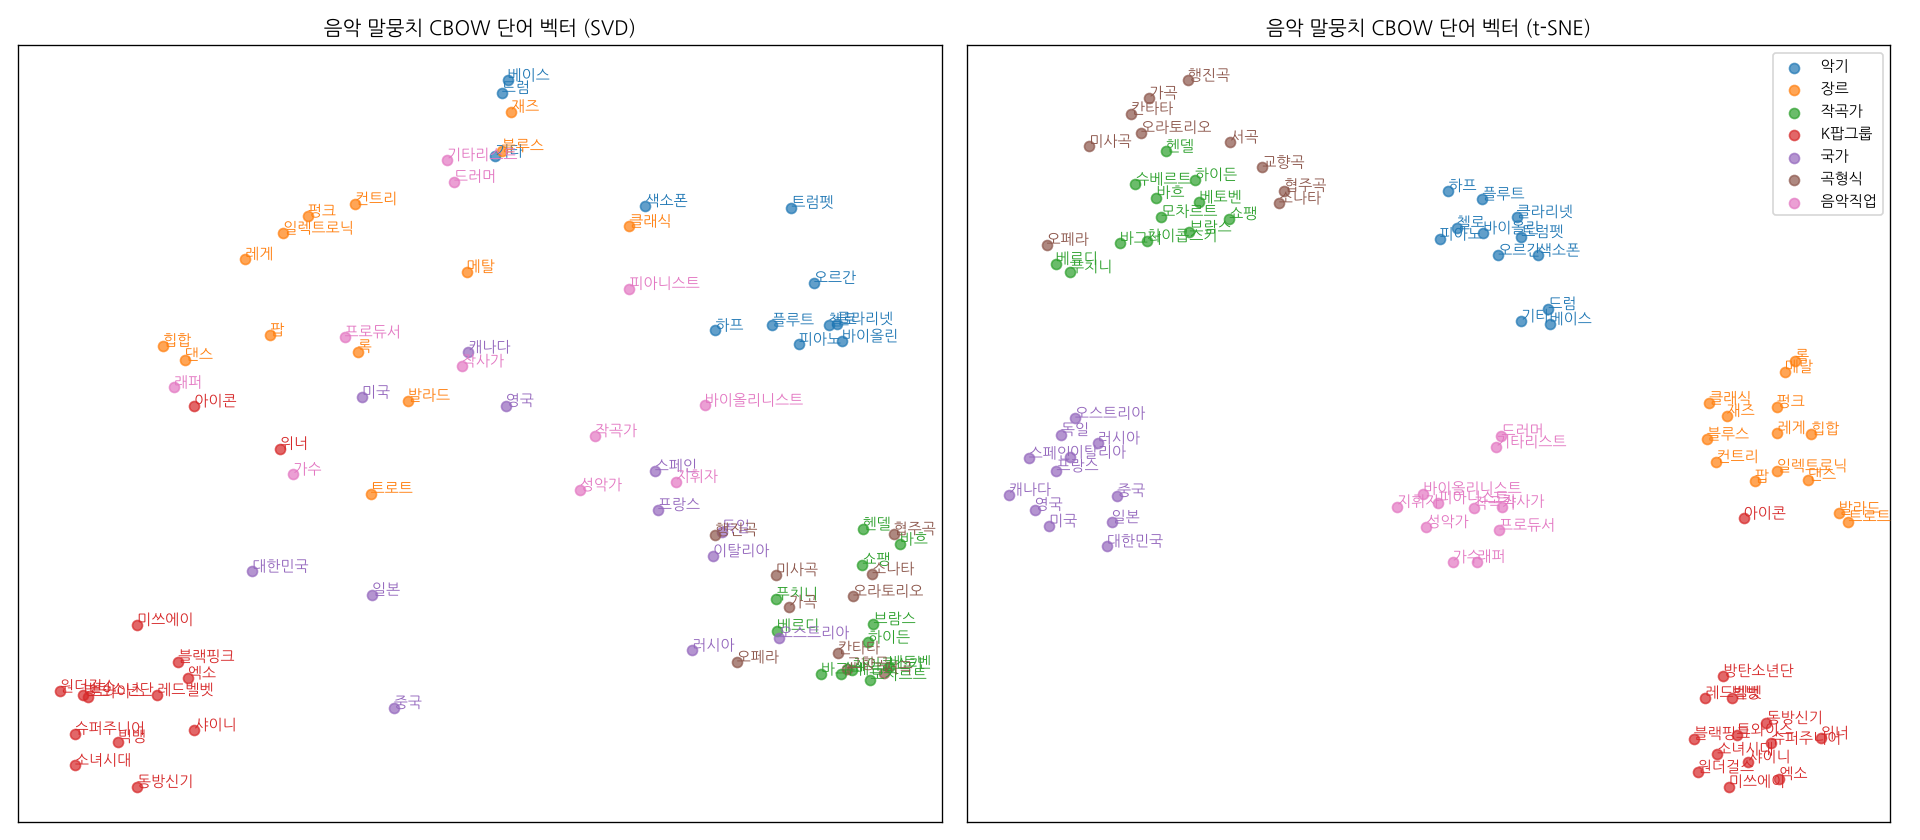
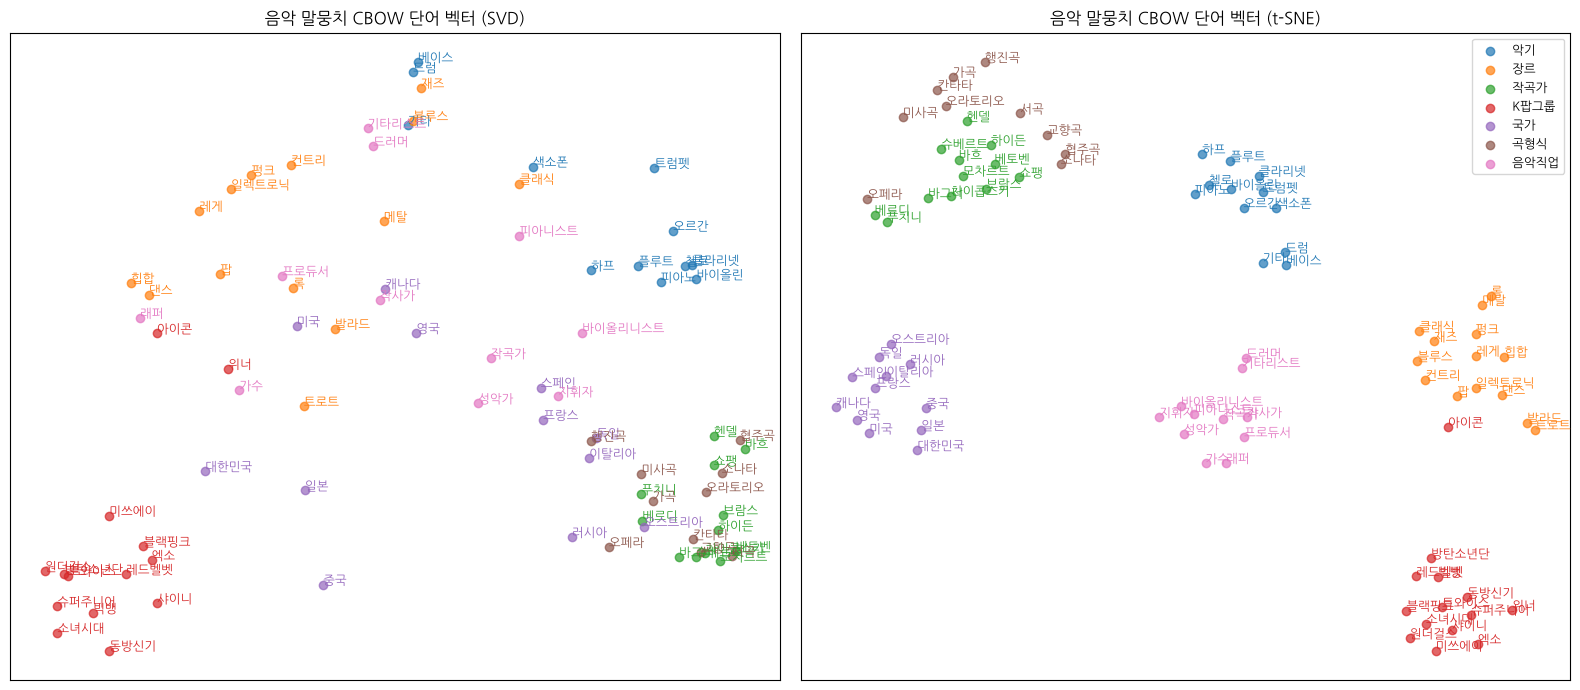
word2vec_music: rewrite README as a report, add report figures

diff --git a/word2vec_music/README.md b/word2vec_music/README.md
@@ -1,57 +1,232 @@
-# word2vec 한글 실습: 음악 말뭉치
+# 음악 분야 한글 말뭉치를 이용한 word2vec 학습 및 평가
 
-『밑바닥부터 시작하는 딥러닝 ❷』 4장(word2vec 속도 개선)의 한글 실습입니다.
-[ssuai/deep_learning_from_scratch2](https://github.com/ssuai/deep_learning_from_scratch2)의 `ch04/word2vec_korean.ipynb`(김소월 시)와 같은 흐름으로,
-**한국어 위키백과 음악 문서**를 모아 교재의 CBOW(Embedding + 네거티브 샘플링)로 학습하고 평가합니다.
+『밑바닥부터 시작하는 딥러닝 ❷』 4장 「word2vec 속도 개선」 한글 실습 보고서
 
-**결과 노트북: [`word2vec_music.ipynb`](word2vec_music.ipynb)**
+- 실험 노트북: [`word2vec_music.ipynb`](word2vec_music.ipynb)
+- 참고: [ssuai/deep_learning_from_scratch2](https://github.com/ssuai/deep_learning_from_scratch2) `ch04/word2vec.ipynb`, `ch04/word2vec_korean.ipynb`
 
-## 결과 요약
+## 요약
 
-평가셋은 직접 만들었습니다: 유추 374문항(악기→연주자, 그룹→소속사, 국가→수도/언어/음악 차트, 작곡가→국적, 남성→여성)과
-7개 범주 84단어의 군집 평가(가장 가까운 5개 중 같은 범주 비율, 무작위 약 0.14).
+한국어 위키백과에서 음악 문서 약 2만 편(형태소 기준 517만 토큰)을 모아, 교재의 CBOW 모델(Embedding 계층과 네거티브 샘플링)로 단어 벡터를 학습했다.
+학습한 벡터를 평가하려고 유추 문제 374개와 범주 군집 평가셋(7개 범주, 84단어)을 직접 만들었다.
+가장 좋은 모델은 전체 말뭉치를 Kiwi로 형태소 분석해 학습한 CBOW였다. 이 모델은 유추 top-5 정답률 0.826, 범주 군집 정확도(P@5) 0.889를 기록했다.
+비교 실험에서는 **말뭉치 크기**가 성능에 가장 크게 영향을 줬다. **형태소 분석기**를 쓴 쪽이 규칙 기반 조사 분리보다 나았다.
+**윈도우 크기**에 따라 단어 벡터가 담는 관계의 종류가 달라졌다.
 
-| 설정 (5에폭, hidden 100, 배치 1000, lr 0.003) | 토큰 | 어휘 | 학습 | 유추 top-1 | 유추 top-5 | 범주 P@5 |
-|---|---:|---:|---:|---:|---:|---:|
-| 규칙 기반 토큰 / CBOW 윈도우 5 | 219만 | 16,220 | 28분 | 0.321 | 0.603 | 0.760 |
-| Kiwi / CBOW 윈도우 5 | 251만 | 12,687 | 29분 | 0.358 | 0.660 | 0.835 |
-| Kiwi / CBOW 윈도우 2 | 251만 | 12,687 | 21분 | 0.230 | 0.540 | **0.896** |
-| Kiwi / Skip-gram 윈도우 2 | 251만 | 12,687 | 46분 | 0.345 | 0.652 | 0.880 |
-| Kiwi / CBOW 윈도우 5, 문서 10% | 50만 | 4,190 | 5분 | 0.163 | 0.332 | 0.731 |
-| Kiwi / CBOW 윈도우 5, 문서 25% | 125만 | 7,922 | 13분 | 0.226 | 0.479 | 0.785 |
-| **Kiwi / CBOW 윈도우 5, 전체** | 517만 | 20,276 | 72분 | **0.479** | **0.826** | 0.889 |
+## 1. 목표
 
-* 말뭉치 크기의 영향이 가장 컸고, 형태소 분석(Kiwi)이 규칙 기반 조사 분리보다 나았습니다.
-* 윈도우가 좁으면 같은 종류끼리(범주), 넓으면 함께 나오는 관계(유추)를 더 잘 잡았습니다. Skip-gram은 CBOW보다 유추에 강하지만 2배 넘게 느렸습니다.
-* 교재 `analogy()`에 정규화하지 않은 벡터를 넣으면 노름이 큰 단어가 늘 답으로 나와서, `normalize()` 후 풀어야 했습니다.
-* 예: `피아노 → 첼로, 바이올린, 신시사이저`, `미국:빌보드 = 일본:오리콘`, `엑소:SM = 트와이스:JYP`
+교재 4장의 한글 예제는 김소월의 시 168편(1.3만 토큰)으로 CBOW를 학습한다.
+그런데 말뭉치가 작아서 어휘의 30%가 `<unk>`가 되고, 유사 단어 검색 결과도 불안정하다(예: `님` → `몹쓸`, `물가`).
+이 과제의 목표는 다음 세 가지다.
 
-![범주별 단어 벡터](figures/tsne_categories.png)
+1. 관심 분야(음악)의 한글 말뭉치를 교재 예제보다 충분히 크게 직접 수집한다.
+2. 교재의 word2vec 구현을 그대로 사용해 단어 벡터를 학습한다.
+3. 결과를 눈으로 보는 데 그치지 않고, 설정을 바꿔 가며 **정량적으로 비교**할 수 있는 평가 체계를 만든다.
 
-## 구성
+## 2. 데이터
 
-| 파일 | 내용 |
+### 2.1 수집
+
+| 단계 | 방법 | 결과 |
+|---|---|---|
+| 원본 | [kowikitext](https://github.com/lovit/kowikitext): 한국어 위키백과 2020-09-20 덤프를 문서 단위로 정리한 공개 데이터 (CC BY-SA) | 846,797 문서 |
+| 음악 문서 선별 | 문서 정의문(첫 문장)의 서술부 끝 40글자에 음악 명사(가수, 음반, 노래, 작곡가, 밴드, 교향곡, 악기, 장르 등)가 있는 문서만 선택 | 26,811 문서 |
+| 정제 | 괄호 속 원어·한자·생몰년 삭제, `~다.`로 끝나는 서술문만 유지(목록·표 제거), 문서 내 중복 문장 삭제, 한글 비율 60% 미만 문장 삭제 | **19,977 문서, 220,307 문장, 1,353만 글자** |
+
+처음에는 정의문 전체에서 키워드를 찾았다. 그랬더니 `조세법률주의`, `FN M1900`(싱글 액션 권총), `안남초등학교`(옥천군 안남면 *연주*리) 같은 문서가 섞여 들어왔다.
+그래서 판단 기준을 "이 문서는 무엇인가"를 말하는 서술부로 좁혔다.
+선별된 문서는 K팝 가수와 음반, 서양 고전음악(작곡가, 작품, 악기), 대중음악 장르, 해외 밴드 등 음악 전반을 다룬다.
+
+### 2.2 토큰화
+
+위키백과 문장은 시보다 길고 활용형이 다양하다. 그래서 두 가지 토크나이저를 만들어 비교했다(`dataset/tokenize_music.py`).
+
+| | 규칙 기반 (교재 `common/korean.py`) | Kiwi 형태소 분석기 |
+|---|---|---|
+| 방식 | 어절 끝 조사만 규칙으로 분리 | 형태소 분석 후 용언은 기본형(`남겼다` → `남기다`), 조사는 `-를`처럼 표기, 어미 삭제 |
+| `쇼팽은 … 작곡가이자 피아니스트로 … 남겼다` | `쇼팽 -은 … 작곡가이자 피아니스트 -로 … 남겼다` | `쇼팽 -은 … 작곡가 -이다 피아니스트 -로 … 남기다` |
+| 전체 토큰 수 | 451만 | 517만 |
+| 어휘 수 (`min_count=10`) | 28,658 | 20,276 |
+| `<unk>` 비율 | 10.1% | 4.5% |
+
+규칙 기반 방식에서는 `작곡가이자`, `그룹이다`, `데뷔한`처럼 어미가 붙은 형태가 모두 서로 다른 단어가 된다.
+그래서 어휘가 커지고, 같은 단어의 통계가 여러 형태로 흩어진다.
+
+## 3. 방법
+
+### 3.1 모델
+
+교재 4장의 구현을 그대로 사용했다.
+
+- **CBOW**: 맥락 단어들의 Embedding 평균으로 가운데 단어를 예측한다(`cbow.py`).
+- **Skip-gram**: 가운데 단어로 맥락 단어 각각을 예측한다(`skip_gram.py`).
+- **Embedding 계층**: 원-핫 벡터와 가중치 행렬의 곱 대신 해당 행을 뽑아 쓴다.
+- **네거티브 샘플링**: 어휘 전체에 대한 Softmax 다중 분류를, 정답 1개와 오답 5개에 대한 Sigmoid 이진 분류로 바꾼다. 오답은 unigram 분포의 0.75제곱으로 뽑는다.
+- 은닉층 100차원, Adam 최적화, 5에폭, `min_count=10`.
+
+### 3.2 교재 코드에서 바꾼 점
+
+교재 코드를 그대로 쓰면 어휘가 1만 개를 넘는 이 말뭉치를 CPU에서 학습할 수 없을 만큼 느렸다. 그래서 두 부분을 바꿨다.
+
+1. **네거티브 샘플 추출.** 교재 `UnigramSampler`의 CPU 경로는 샘플마다 확률표를 복사하고 `np.random.choice`를 따로 호출한다.
+   이것을 교재 GPU 경로와 같은 방식으로 바꿔 배치 전체를 한 번에 뽑게 했다. 분포는 같고, 정답 단어가 오답으로 뽑힐 수 있다는 점만 다르다.
+2. **배치 크기 1000, 학습률 0.003.** 교재 `Embedding.backward()`는 반복마다 (어휘 수 × 100) 크기의 기울기 행렬 전체를 0으로 초기화한다. `Adam`도 행렬 전체를 갱신한다.
+   그래서 반복 1회의 비용이 배치 크기보다 어휘 수에 좌우된다. 배치 100으로는 250만 토큰 1에폭에 1시간이 넘게 걸렸다.
+   배치를 1000으로 키워 반복 횟수를 1/10로 줄이고, 줄어든 갱신 횟수만큼 학습률을 올렸다.
+   같은 조건으로 2에폭을 학습했을 때 lr 0.001은 유추 top-5 0.291, lr 0.003은 0.564였다.
+
+### 3.3 평가 방법
+
+평가셋은 직접 만들었다(`eval/build_testsets.py`, 사실관계는 위키백과 기준).
+
+**유추 평가 (374문항).** `a : b = c : ?` 형식이다. 교재 `analogy()`와 같은 방식으로 풀었다.
+`b − a + c` 벡터와 코사인 유사도가 가장 큰 단어(a, b, c 제외)가 정답이면 top-1, 상위 5개 안에 있으면 top-5로 셌다.
+
+| 관계 | 예시 | 문항 |
+|---|---|---:|
+| 악기 → 연주자 | 피아노 : 피아니스트 = 바이올린 : 바이올리니스트 | 42 |
+| 그룹 → 소속사 | 엑소 : SM = 트와이스 : JYP | 94 |
+| 국가 → 수도 | 일본 : 도쿄 = 프랑스 : 파리 | 56 |
+| 국가 → 언어 | 독일 : 독일어 = 일본 : 일본어 | 30 |
+| 국가 → 음악 차트 | 미국 : 빌보드 = 일본 : 오리콘 | 6 |
+| 작곡가 → 국적 | 쇼팽 : 폴란드 = 베르디 : 이탈리아 | 90 |
+| 남성 → 여성 | 남성 : 여성 = 테너 : 소프라노 | 56 |
+
+**범주 군집 평가 (84단어).** 악기, 장르, 작곡가, K팝 그룹, 국가, 곡 형식, 음악 직업의 7개 범주로 구성했다.
+단어마다 평가 단어 전체에서 가장 가까운 5개를 찾고, 그중 같은 범주의 비율(precision@5)을 평균했다. 무작위로 고르면 약 0.14다.
+
+## 4. 결과
+
+### 4.1 비교 실험
+
+모든 실험은 5에폭, 은닉층 100, 배치 1000, lr 0.003이다. 학습 시간은 4코어 CPU에서 여러 실험을 동시에 돌린 기준이다.
+
+| 실험 | 설정 | 토큰 | 어휘 | 학습 시간 | 유추 top-1 | 유추 top-5 | 범주 P@5 |
+|---|---|---:|---:|---:|---:|---:|---:|
+| 토크나이저 | 규칙 기반 / CBOW 윈도우 5 / 문서 50% | 219만 | 16,220 | 28분 | 0.321 | 0.603 | 0.760 |
+| | Kiwi / CBOW 윈도우 5 / 문서 50% | 251만 | 12,687 | 29분 | 0.358 | 0.660 | 0.835 |
+| 모델·윈도우 | Kiwi / CBOW 윈도우 2 / 문서 50% | 251만 | 12,687 | 21분 | 0.230 | 0.540 | **0.896** |
+| | Kiwi / Skip-gram 윈도우 2 / 문서 50% | 251만 | 12,687 | 46분 | 0.345 | 0.652 | 0.880 |
+| 말뭉치 크기 | Kiwi / CBOW 윈도우 5 / 문서 10% | 50만 | 4,190 | 5분 | 0.163 | 0.332* | 0.731 |
+| | Kiwi / CBOW 윈도우 5 / 문서 25% | 125만 | 7,922 | 13분 | 0.226 | 0.479* | 0.785 |
+| | Kiwi / CBOW 윈도우 5 / 문서 50% | 251만 | 12,687 | 29분 | 0.358 | 0.660 | 0.835 |
+| | **Kiwi / CBOW 윈도우 5 / 문서 100%** | 517만 | 20,276 | 72분 | **0.479** | **0.826** | 0.889 |
+
+\* 평가 단어 중 `min_count` 미만인 단어가 있어 일부 문항만 풀 수 있었다(10%: 202문항, 25%: 332문항).
+규칙 기반은 358문항, 나머지는 374문항 전부를 풀었다.
+
+![말뭉치 크기에 따른 성능](figures/corpus_size.png)
+
+![범주별 유추 정답률](figures/analogy_by_category.png)
+
+### 4.2 최종 모델 (Kiwi, CBOW, 윈도우 5, 전체 말뭉치)
+
+학습 손실은 4.16에서 1.34로 줄었다.
+
+![학습 손실](figures/loss_curve.png)
+
+**유사 단어 (코사인 유사도 상위 5개)**
+
+| 질의 | 결과 |
 |---|---|
-| `dataset/make_music.sh` | 말뭉치를 처음부터 다시 만드는 스크립트 (kowikitext 약 500MB 다운로드) |
-| `dataset/filter_music.py` | 정의문 서술부로 음악 문서 고르기 (84.7만 문서 → 2.7만) |
-| `dataset/clean_music.py` | 괄호·목록·중복 제거, 서술문만 남김 (→ 2만 문서, 22만 문장, 1,350만 글자) |
-| `dataset/tokenize_music.py` | 규칙 기반(`common/korean.py`) / Kiwi 토큰화 |
-| `dataset/music_clean.txt.gz` | 정제된 말뭉치 (출처: 한국어 위키백과, CC BY-SA, [kowikitext](https://github.com/lovit/kowikitext) 2020-09-20) |
-| `music_data.py` | 토큰 파일 → `(corpus, word_to_id, id_to_word)` |
-| `train_music.py` | 교재 `ch04/train.py` 의 음악 말뭉치 버전 |
-| `eval_music.py`, `eval/` | 유추·범주 평가 코드와 평가셋 |
-| `results/*.pkl` | 학습된 단어 벡터와 손실 기록 |
-| `common/`, `cbow.py`, `skip_gram.py`, `negative_sampling_layer.py` | 밑바닥 2권 코드(MIT, ssuai 저장소) 그대로. 1권의 `common/`과 섞이지 않게 이 폴더 안에 따로 둠 |
+| 피아노 | 첼로, 바이올린, 신시사이저, 쳄발로, 비올라 |
+| 재즈 | 클래식, 아방가르드, 블루스, 퓨전, 뉴올리언스 |
+| 쇼팽 | 베토벤, 연습곡, 슈만, 모차르트, 멘델스존 |
+| 방탄소년단 | 빅뱅, 지드래곤, 레드벨벳, 포미닛, 케이팝 |
+| 소프라노 | 테너, 바리톤, 성악가, 콜로라투라, 음역 |
+| 트로트 | 정통, 발라드, 가요, 탱고, 설운도 |
+| 데뷔 | 데뷰, 복귀, 컴백, 발돋움, 전향 |
 
-교재 코드에서 바꾼 점은 두 가지입니다. 네거티브 샘플은 교재 GPU 경로와 같은 방식(배치 전체를 한 번에 뽑음)으로 CPU에서도 뽑고,
-배치를 1000으로 키웠습니다. 교재 `Embedding.backward()`와 `Adam`이 매 반복 (어휘 수 × 100) 행렬 전체를 다뤄서, 배치 100이면 1에폭에 1시간이 넘게 걸렸기 때문입니다.
+**유추 예시**
 
-## 실행
+| 문제 | 상위 3개 예측 | |
+|---|---|---|
+| 피아노 : 피아니스트 = 바이올린 : ? | 바이올리니스트, 조각가, 오르가니스트 | 정답 |
+| 일본 : 도쿄 = 프랑스 : ? | 파리, 하노이, 취리히 | 정답 |
+| 미국 : 빌보드 = 일본 : ? | 오리콘, TOKIO, ZARD | 정답 |
+| 엑소 : SM = 트와이스 : ? | JYP, YG, 스타쉽 | 정답 |
+| 남성 : 여성 = 테너 : ? | 소프라노, 바리톤, 모나코 | 정답 |
+| 모차르트 : 오스트리아 = 쇼팽 : ? | 헝가리, 스위스, 폴란드 | top-5 안 |
+| 남자 : 여자 = 왕 : ? | 시신, 크레인, 총장 | 오답 |
+
+**범주별 성능**
+
+| 유추 관계 | top-1 | top-5 | | 범주 | P@5 |
+|---|---:|---:|---|---|---:|
+| 악기 → 연주자 | 0.333 | 0.833 | | 악기 | 0.98 |
+| 그룹 → 소속사 | 0.670 | 0.957 | | 장르 | 0.91 |
+| 국가 → 수도 | 0.321 | 0.661 | | 작곡가 | 0.92 |
+| 국가 → 언어 | 0.367 | 0.867 | | K팝 그룹 | 0.94 |
+| 국가 → 음악 차트 | 0.667 | 1.000 | | 국가 | 0.97 |
+| 작곡가 → 국적 | 0.289 | 0.756 | | 곡 형식 | 0.48 |
+| 남성 → 여성 | 0.768 | 0.839 | | 음악 직업 | 0.95 |
+
+![범주별 단어 벡터 시각화](figures/tsne_categories.png)
+
+t-SNE로 줄여 그린 2차원 그림에서도 악기, 장르, 작곡가, K팝 그룹, 국가가 각각 뚜렷한 군집을 이룬다.
+
+## 5. 분석
+
+**말뭉치 크기의 영향이 가장 컸다.** 문서를 10%에서 100%로 늘리는 동안 유추 top-5는 0.33에서 0.83으로, 범주 P@5는 0.73에서 0.89로 꾸준히 올랐다. 100%에서도 아직 포화되지 않았다.
+1.3만 토큰짜리 김소월 예제와 달리 유사 단어와 유추 결과가 대부분 납득할 만하다.
+다만 말뭉치가 커지면 같은 5에폭이라도 갱신 횟수와 어휘 수가 함께 늘어난다. 따라서 이 차이가 순수하게 데이터 양만의 효과는 아니다.
+
+**형태소 분석이 규칙 기반보다 나았다.** 같은 문서에서 Kiwi는 어휘가 더 작고 `<unk>`도 적었다(6.2% 대 13.2%).
+범주 P@5(0.835 대 0.760)와 유추 top-5(0.660 대 0.603) 모두 앞섰다. 특히 악기 → 연주자 유추(0.74 대 0.38)와 음악 직업 범주(0.84 대 0.58)에서 차이가 컸다.
+`피아니스트로`, `작곡가이자`처럼 어미가 붙은 형태가 흩어지지 않고 한 단어로 모였기 때문이다.
+반대로 Kiwi는 `빅히트`를 `빅`과 `히트`로 쪼개는 등 고유명사를 자르는 문제가 있었다. 그래서 그룹 → 소속사 유추에서는 규칙 기반이 더 높았다(0.85 대 0.78).
+
+**윈도우 크기에 따라 담기는 관계가 달랐다.** 윈도우 2는 범주 P@5가 0.896으로 가장 높았지만, 유추 top-5는 0.540으로 윈도우 5(0.660)보다 낮았다.
+좁은 문맥은 같은 자리에 올 수 있는 단어, 즉 같은 종류의 단어(악기끼리, 작곡가끼리)를 잘 묶는다.
+넓은 문맥은 그룹과 소속사, 작곡가와 국적처럼 **함께 등장하는 관계**를 더 잘 담는다.
+
+**Skip-gram은 유추에 강했지만 느렸다.** 같은 윈도우 2에서 Skip-gram은 유추 top-5가 0.652로 CBOW(0.540)보다 높았다. 특히 국가 → 수도(0.61 대 0.38)와 드문 단어가 많은 곡 형식 범주(0.58 대 0.38)에서 좋았다.
+Skip-gram은 맥락 단어마다 손실을 따로 계산하므로 드문 단어도 학습 신호를 더 많이 받는다. 대신 학습 시간은 CBOW의 2.2배였다.
+
+**교재 `analogy()`는 벡터를 정규화해야 제대로 동작했다.** 학습된 벡터를 그대로 넣으면 `피아노 : 피아니스트 = 바이올린 : ?`의 답으로 `후임`, `지휘자`가 먼저 나오고, 정답 `바이올리니스트`는 3위로 밀렸다.
+`analogy()`는 질의 벡터만 정규화하고 단어 행렬은 정규화하지 않은 채 내적한다. 그래서 여러 문맥에 두루 나와 벡터 길이가 큰 단어가 어느 질문에서나 위로 올라온다.
+교재 `normalize()`로 단어 벡터를 먼저 정규화하자 `바이올리니스트`가 1위로 올라왔다. 이 보고서의 정량 평가는 모두 정규화한 벡터로 했다.
+
+**틀린 문제의 경향.** 오답 대부분은 관계의 방향은 맞지만 같은 범주 안에서 헷갈린 경우였다. 예를 들어 `브람스 : 독일 = 차이콥스키 : ?`에 `오스트리아`, `러시아` 순으로 답했다.
+`남자 : 여자 = 왕 : ?`는 끝까지 틀렸다. 음악 문서에는 왕과 여왕이 나오는 문맥이 거의 없기 때문이다. 단어 벡터는 말뭉치가 다루는 범위의 의미만 배운다.
+곡 형식 범주(칸타타, 오라토리오, 미사곡 등)는 모든 설정에서 성능이 가장 낮았다. 이 단어들은 등장 횟수가 적고, `작곡하다`, `초연` 같은 문맥을 작곡가·악기 이름과 공유한다.
+
+## 6. 한계와 향후 과제
+
+- 평가셋은 직접 만든 소규모 데이터(유추 374문항, 84단어)라 일반적인 품질 지표로 보기는 어렵다.
+- 실험마다 시드 하나로 한 번씩만 학습해서, 작은 차이는 오차 범위일 수 있다.
+- 학습 시간 때문에 비교 실험은 문서 50%로 했고, 에폭과 은닉층 크기는 바꿔 보지 못했다.
+- 개선 방향: 전체 말뭉치로 Skip-gram 학습, Kiwi 사용자 사전에 고유명사(`빅히트`, `SM엔터테인먼트`) 추가, 희소 갱신(Embedding이 쓰는 행만 갱신)으로 학습 속도 개선.
+
+## 부록 A. 재현 방법
 
 ```bash
 pip install numpy matplotlib kiwipiepy scikit-learn
 cd word2vec_music
+
+# (선택) 말뭉치를 처음부터 다시 만들기: kowikitext 약 500MB 다운로드
+bash dataset/make_music.sh
+
+# 학습 (처음 실행하면 dataset/music_clean.txt.gz에서 토큰 파일을 만든다, 약 1분)
 python train_music.py --tokenizer kiwi --model cbow --window 5 --batch 1000 --lr 0.003 --epoch 5 --min_count 10 --frac 1.0
+
+# 평가
 python eval_music.py results/*.pkl
 ```
-처음 실행하면 `music_clean.txt.gz`에서 토큰 파일을 만듭니다(약 1분). Colab에서는 노트북 첫 셀이 저장소 복제와 설치를 해 줍니다.
+
+Colab에서는 노트북 첫 셀이 저장소 복제와 패키지 설치를 해 준다.
+
+## 부록 B. 파일 구성
+
+| 파일 | 내용 |
+|---|---|
+| `word2vec_music.ipynb` | 실험 노트북 (수집, 토큰화, 학습, 평가, 비교 실험, 시각화) |
+| `dataset/make_music.sh` | 말뭉치 생성 전체 과정 |
+| `dataset/filter_music.py`, `clean_music.py`, `tokenize_music.py` | 음악 문서 선별, 정제, 토큰화 |
+| `dataset/music_clean.txt.gz` | 정제된 말뭉치 (한국어 위키백과, CC BY-SA) |
+| `music_data.py` | 토큰 파일을 교재 형식 `(corpus, word_to_id, id_to_word)`로 변환 |
+| `train_music.py` | 학습 스크립트 (교재 `ch04/train.py` 기반) |
+| `eval_music.py`, `eval/` | 평가 코드와 평가셋 |
+| `results/*.pkl` | 학습된 단어 벡터와 손실 기록 |
+| `figures/` | 보고서 그림 |
+| `common/`, `cbow.py`, `skip_gram.py`, `negative_sampling_layer.py` | 『밑바닥부터 시작하는 딥러닝 ❷』 코드 (MIT 라이선스). 저장소의 1권 `common/`과 섞이지 않게 이 폴더에 따로 둠 |
